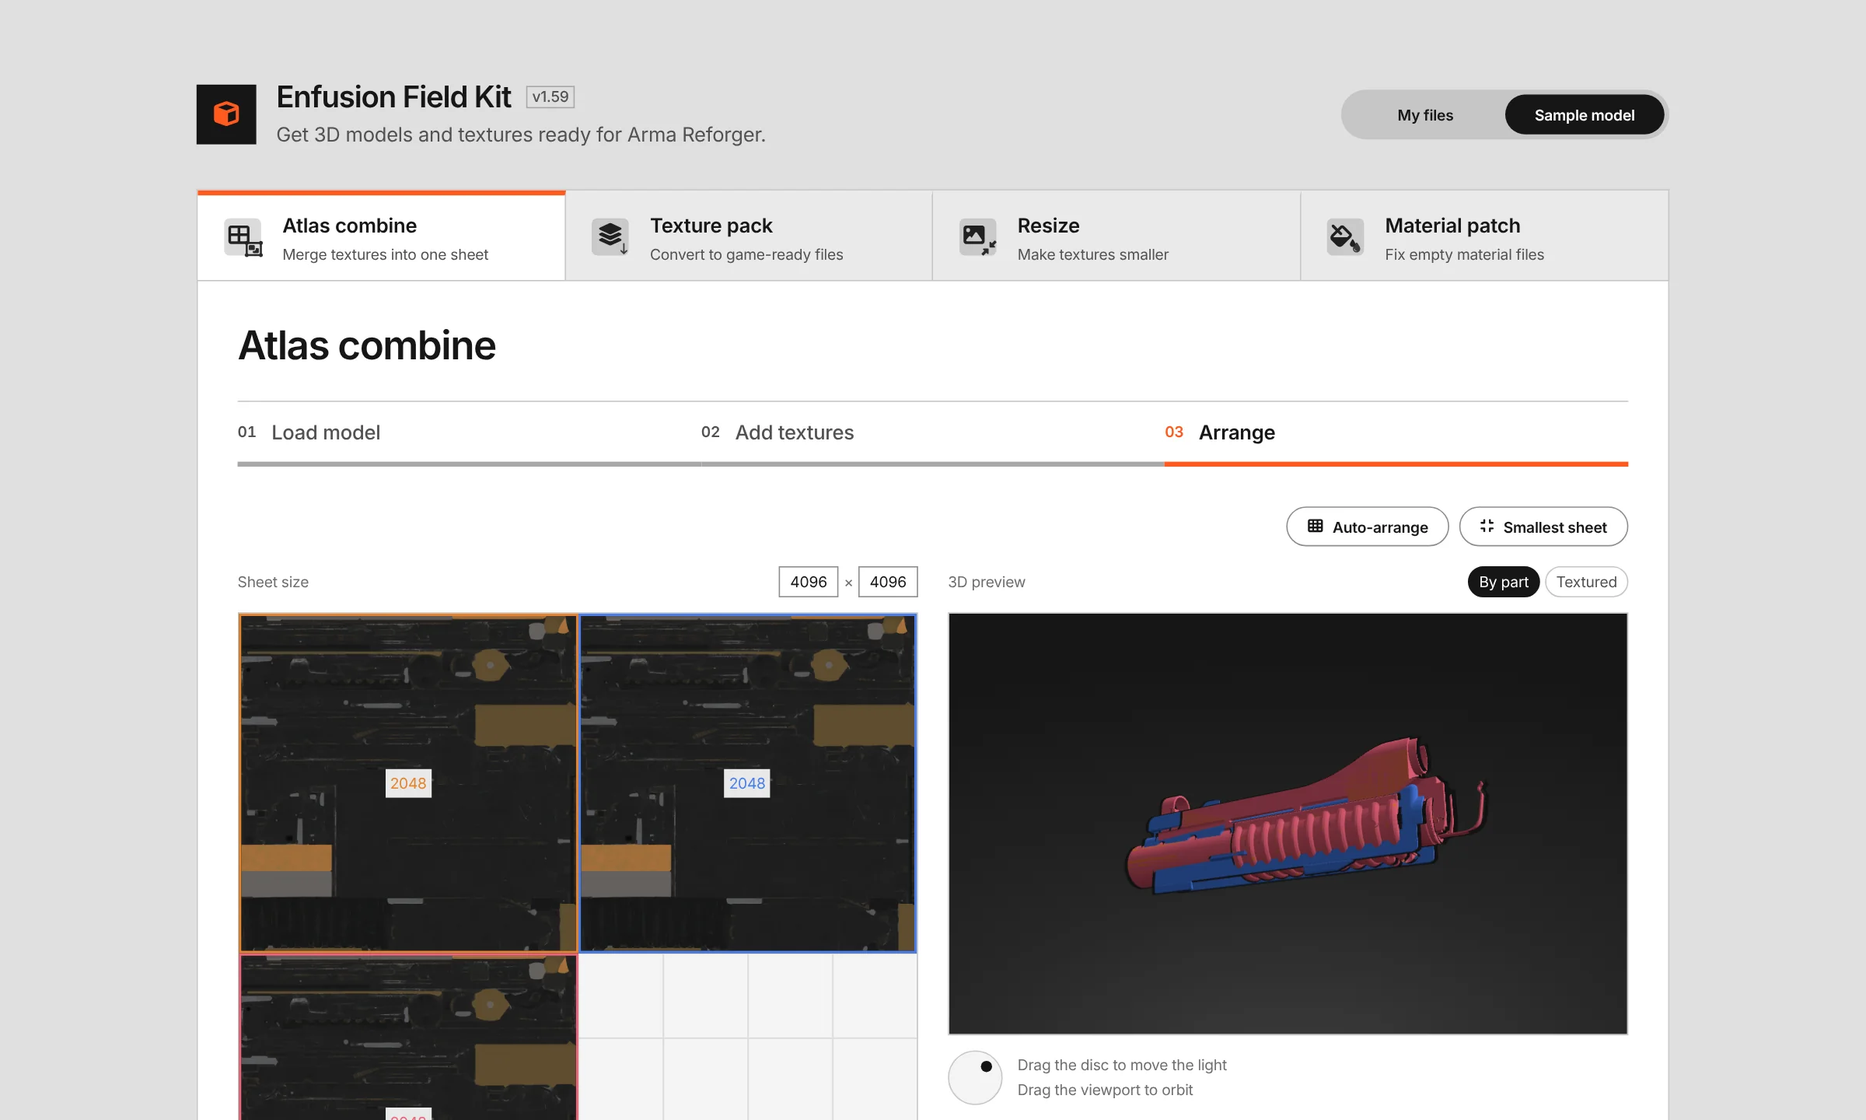
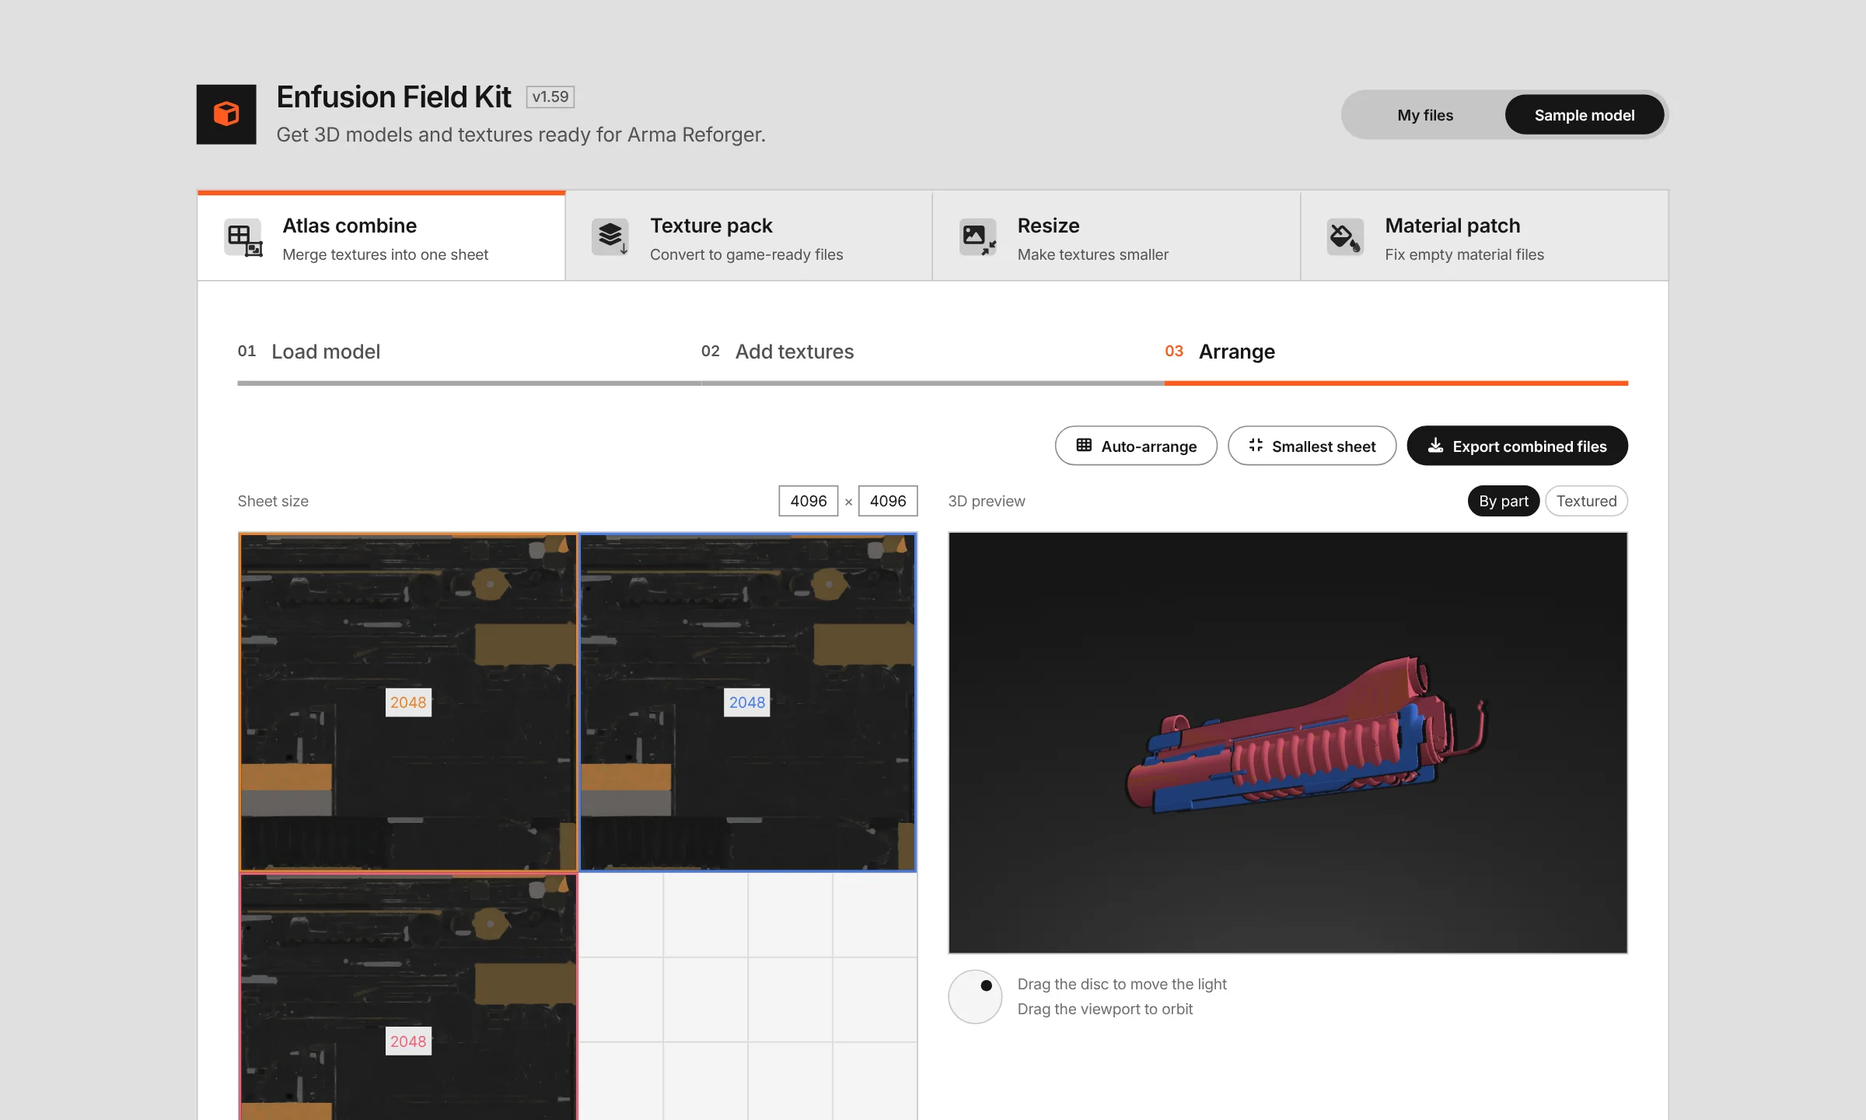
Add the Enfusion Field Kit case study and finish the redesign
- Field Kit: task title removed, final action moved to the top-right of each
  task's last step, all buttons one height
- New case study at /projects/enfusion-field-kit covering the problem, the
  four tasks and the design decisions, linking to the app
- Home card links to the case study and cycles four new screenshots
- Old Texture Wizard URL redirects to the case study; sitemap and llms.txt
  updated
- Project hero accepts a custom prototype label and note

Claude-Session: https://claude.ai/code/session_01Dr98zWrFXBtZQ6UmLSapEu

diff --git a/public/enfusion-field-kit-beta/index.html b/public/enfusion-field-kit-beta/index.html
@@ -89,7 +89,7 @@
   .efk-card { background:#FFFFFF; border:1px solid #C6C6C6; padding:32px; position:relative; min-height:480px; display:flex; flex-direction:column; }
   .efk-cardhead { display:flex; flex-direction:column; gap:24px; margin-bottom:32px; }
   .efk-h2 { margin:0; font-size:32px; font-weight:600; letter-spacing:-0.03em; line-height:40px; color:#161616; }
-  .efk-stepper { list-style:none; margin:0; padding:0; display:grid; grid-template-columns:repeat(3,minmax(0,1fr)); border-top:1px solid #C6C6C6; }
+  .efk-stepper { list-style:none; margin:0; padding:0; display:grid; grid-template-columns:repeat(3,minmax(0,1fr)); }
   .efk-stepper li { display:flex; }
   .efk-stepbtn { appearance:none; flex:1; border:none; border-radius:0; border-bottom:4px solid #E0E0E0; background:transparent; padding:12px 0; justify-content:flex-start !important; gap:12px !important; font-size:16px; line-height:24px; font-weight:500; color:#A8A8A8; text-align:left; cursor:not-allowed; transition:color .15s,border-color .15s; }
   .efk-stepbtn .efk-n { font-size:12px; line-height:16px; font-weight:600; font-variant-numeric:tabular-nums; }
@@ -179,7 +179,6 @@
       <div class="efk-content efk-card">
 
         <div class="efk-cardhead">
-          <h2 class="efk-h2">{{ briefTitle }}</h2>
           <ol class="efk-stepper">
             <sc-for list="{{ briefSteps }}" as="st" hint-placeholder-count="3">
               <li><button class="{{ st.cls }}" onClick="{{ st.onClick }}" disabled="{{ st.disabled }}"><span class="efk-n">{{ st.n }}</span><span>{{ st.label }}</span></button></li>
@@ -256,6 +255,9 @@
             <sc-if value="{{ showResults }}" hint-placeholder-val="{{ false }}">
               <div style="display:flex;flex-direction:column;gap:16px;animation:rise .3s ease both">
             <div class="h0 h1 efk-view">
+              <div class="efk-tools ">
+                    <button onClick="{{ onApply }}" disabled="{{ applyDisabled }}" style="{{ applyStyle }}">{{ applyLabel }}</button>
+              </div>
                 <div style="display:grid;grid-template-columns:repeat(auto-fit,minmax(180px,1fr));border:1px solid #C6C6C6">
                   <div style="padding:16px 16px;border-right:1px solid #C6C6C6;display:flex;flex-direction:column;gap:8px;min-width:0">
                     <div style="font-family:Inter,sans-serif;font-size:12px;color:#525252">Folder</div>
@@ -382,6 +384,9 @@
               </div>
             </div>
             <div class="h0 efk-view">
+              <div class="efk-tools h0 h1">
+              <button onClick="{{ onDownloadAll }}" disabled="{{ dlAllDisabled }}" style="{{ dlAllStyle }}" style-hover="filter:brightness(1.12)"><i class="fa-solid fa-download" aria-hidden="true"></i>Download everything (.zip)</button>
+              </div>
             <sc-if value="{{ hasSets }}" hint-placeholder-val="{{ false }}">
               <div onDragOver="{{ onSetsDragOver }}" onDragLeave="{{ onSetsDragLeave }}" onDrop="{{ onSetsDrop }}" style="{{ setsAreaStyle }}">
                 <sc-if value="{{ texDragOver }}" hint-placeholder-val="{{ false }}">
@@ -501,6 +506,11 @@
             </sc-if>
             </div>
             <div class="h0 efk-view">
+              <div class="efk-tools h0 h1">
+                <button onClick="{{ onResizeClear }}" disabled="{{ noResizeFiles }}" style="{{ clearStyle }}"><i class="fa-solid fa-trash" aria-hidden="true"></i>Clear all</button>
+                <button onClick="{{ onUndoAll }}" disabled="{{ undoAllDisabled }}" style="{{ undoAllStyle }}"><i class="fa-solid fa-rotate-left" aria-hidden="true"></i>Undo all</button>
+                <button onClick="{{ onReduceAll }}" disabled="{{ noResizeFiles }}" style="{{ reduceAllStyle }}">{{ reduceAllLabel }}</button>
+              </div>
             <sc-if value="{{ hasResizeFiles }}" hint-placeholder-val="{{ false }}">
               <div style="border:1px solid #C6C6C6">
                 <sc-for list="{{ resizeRows }}" as="row" hint-placeholder-count="3">
@@ -604,6 +614,7 @@
               <div class="efk-tools">
                 <button onClick="{{ onAutoPack }}" style="{{ utilBtn }}" style-hover="border-color:#161616;color:#161616"><i class="fa-solid fa-table-cells" aria-hidden="true"></i>Auto-arrange</button>
                 <button onClick="{{ onSmallestFit }}" style="{{ utilBtn }}" style-hover="border-color:#161616;color:#161616"><i class="fa-solid fa-compress" aria-hidden="true"></i>Smallest sheet</button>
+                <button onClick="{{ onExportAtlas }}" disabled="{{ atlasExportDisabled }}" style="{{ atlasExportStyle }}" style-hover="filter:brightness(1.14)"><i class="fa-solid fa-download" aria-hidden="true"></i>{{ atlasExportLabel }}</button>
               </div>
                 <div style="display:grid;grid-template-columns:repeat(auto-fit,minmax(320px,1fr));gap:24px;align-items:start">
 
@@ -674,20 +685,6 @@
             </sc-if>
             <sc-if value="{{ notLast }}" hint-placeholder-val="{{ false }}">
               <button onClick="{{ onStepNext }}" disabled="{{ nextDisabled }}" style="{{ nextStyle }}">Continue<i class="fa-solid fa-arrow-right" aria-hidden="true"></i></button>
-            </sc-if>
-            <sc-if value="{{ fin4 }}" hint-placeholder-val="{{ false }}">
-                <button onClick="{{ onExportAtlas }}" disabled="{{ atlasExportDisabled }}" style="{{ atlasExportStyle }}" style-hover="filter:brightness(1.14)"><i class="fa-solid fa-download" aria-hidden="true"></i>{{ atlasExportLabel }}</button>
-            </sc-if>
-            <sc-if value="{{ fin2 }}" hint-placeholder-val="{{ false }}">
-              <button onClick="{{ onDownloadAll }}" disabled="{{ dlAllDisabled }}" style="{{ dlAllStyle }}" style-hover="filter:brightness(1.12)"><i class="fa-solid fa-download" aria-hidden="true"></i>Download everything (.zip)</button>
-            </sc-if>
-            <sc-if value="{{ fin3 }}" hint-placeholder-val="{{ false }}">
-                <button onClick="{{ onResizeClear }}" disabled="{{ noResizeFiles }}" style="{{ clearStyle }}"><i class="fa-solid fa-trash" aria-hidden="true"></i>Clear all</button>
-                <button onClick="{{ onUndoAll }}" disabled="{{ undoAllDisabled }}" style="{{ undoAllStyle }}"><i class="fa-solid fa-rotate-left" aria-hidden="true"></i>Undo all</button>
-                <button onClick="{{ onReduceAll }}" disabled="{{ noResizeFiles }}" style="{{ reduceAllStyle }}">{{ reduceAllLabel }}</button>
-            </sc-if>
-            <sc-if value="{{ fin1 }}" hint-placeholder-val="{{ false }}">
-                    <button onClick="{{ onApply }}" disabled="{{ applyDisabled }}" style="{{ applyStyle }}">{{ applyLabel }}</button>
             </sc-if>
           </div>
         </div>
@@ -2555,7 +2552,7 @@ class Component extends DCLogic {
   }
 
   btn(kind, disabled) {
-    const big = kind === "primary";
+    const big = false;
     const base = "appearance:none;font-family:Inter,sans-serif;font-size:12px;font-weight:600;height:" + (big ? 40 : 32) + "px;padding:0 " + (big ? 20 : 16) + "px;transition:all .15s;white-space:nowrap;";
     if (disabled) return base + "border:1px solid #C6C6C6;background:transparent;color:#A8A8A8;cursor:not-allowed";
     if (kind === "primary") return base + "border:1px solid #161616;background:#161616;color:#FFFFFF;cursor:pointer";

diff --git a/app/projects/enfusion-field-kit/page.tsx b/app/projects/enfusion-field-kit/page.tsx
@@ -1,0 +1,188 @@
+import ProjectLayout from "../../../components/project-layout"
+import ProjectHero from "../../../components/project-hero"
+import ProjectSection from "../../../components/project-section"
+
+const APP_URL = "/enfusion_field_kit_beta"
+
+const sections = [
+  { id: "impact", title: "Impact" },
+  { id: "the-problem", title: "The Problem" },
+  { id: "users", title: "Users" },
+  { id: "what-it-does", title: "What It Does" },
+  { id: "how-a-task-works", title: "How a Task Works" },
+  { id: "design-decisions", title: "Design Decisions" },
+  { id: "try-it", title: "Try It" },
+]
+
+const projectData = {
+  company: "Independent project",
+  dateShipped: "2026",
+  title: "Enfusion Field Kit",
+  heroImage: {
+    src: "/enfusion-field-kit.webp",
+    alt: "Enfusion Field Kit arranging three texture tiles into one combined sheet beside a 3D preview",
+  },
+  prototypeHref: APP_URL,
+  prototypeLabel: "Open the app",
+  role: "Product Designer & Design Engineer",
+  timeline: "2025 – 2026",
+  team: "Solo",
+  responsibilities: "Product definition, interaction design, visual design, front-end implementation, and testing",
+  tools: "HTML, CSS, JavaScript, Three.js",
+  aiTools: "Claude Code, ChatGPT",
+  outcome: "A 14-set texture job cut from ~45 minutes to ~90 seconds",
+}
+
+const sectionContent = [
+  {
+    id: "impact",
+    title: "Impact",
+    content: [
+      {
+        type: "stat" as const,
+        content: { value: "30×", label: "faster texture conversion for 14 texture sets", from: "~45 minutes", to: "~90 seconds" },
+      },
+      {
+        type: "list" as const,
+        content: [
+          "Four modding chores in one browser tab",
+          "No Photoshop needed",
+          "Files never leave the modder's computer",
+        ],
+      },
+    ],
+  },
+  {
+    id: "the-problem",
+    title: "The Problem",
+    content: [
+      {
+        type: "paragraph" as const,
+        content:
+          "Arma Reforger needs textures in two packed formats, BCR and NMO, that no standard 3D marketplace exports. A modder importing a third-party model has to split and recombine image channels by hand in Photoshop, file by file. Many modders don't have Photoshop.",
+      },
+      {
+        type: "paragraph" as const,
+        content:
+          "Textures are only the first chore. Models arrive with several materials that should share one sheet, textures that are larger than the game needs, and material files that were created but left empty. Each fix lived in a different tool.",
+      },
+    ],
+  },
+  {
+    id: "users",
+    title: "Users",
+    content: [
+      {
+        type: "paragraph" as const,
+        content:
+          "Arma Reforger modders who bring in third-party models. They know the game's editor well, but they are not necessarily texture artists, and they work with whole model packs at a time.",
+      },
+    ],
+  },
+  {
+    id: "what-it-does",
+    title: "What It Does",
+    content: [
+      {
+        type: "decision-cards" as const,
+        content: [
+          {
+            header: "Atlas combine",
+            text: "Merges the textures of a model's separate parts into one sheet and updates the model to match. Fewer materials means less work for the game on every frame. A 3D preview shows the result before export.",
+            image: "/enfusion-field-kit-textures.webp",
+            imagePlaceholder: "Atlas combine step with five texture images assigned to each of three parts",
+          },
+          {
+            header: "Texture pack",
+            text: "Drop in a material's five standard images and the kit sorts them by filename and builds the two files the game expects. This is the job that used to take Photoshop.",
+            image: "/enfusion-field-kit-pack.webp",
+            imagePlaceholder: "Texture pack step showing normal, ambient occlusion, metallic, base color and roughness maps",
+          },
+          {
+            header: "Resize",
+            text: "Marketplace textures are often 4K when 2K or 1K is enough. Pick a size per file or for the whole batch, and undo any of it.",
+            image: "/enfusion-field-kit-resize.webp",
+            imagePlaceholder: "Resize step listing five texture files with a target size selected for each",
+          },
+          {
+            header: "Material patch",
+            text: "Scans a mod folder for material files left empty and fills in a working definition. Every change is previewed first, with an optional backup.",
+            image: "/enfusion-field-kit-patch.webp",
+            imagePlaceholder: "Material patch step asking for a mod folder to scan",
+          },
+        ],
+      },
+    ],
+  },
+  {
+    id: "how-a-task-works",
+    title: "How a Task Works",
+    content: [
+      {
+        type: "paragraph" as const,
+        content:
+          "Every task follows the same three steps: add files, check them, then run. Only the current step is on screen, and the stepper lets you go back. The kit opens each task on the furthest step that is ready, so returning users land on the action.",
+      },
+      {
+        type: "image" as const,
+        content: "/enfusion-field-kit.webp",
+        caption: "Atlas combine, step three: drag tiles to arrange the sheet, check the 3D preview, export",
+      },
+    ],
+  },
+  {
+    id: "design-decisions",
+    title: "Design Decisions",
+    content: [
+      {
+        type: "cards" as const,
+        content: [
+          {
+            header: "Plain words first",
+            text: "The first version spoke in engine shorthand: BCR, NMO, CRM, rewrite UVs. The task names stay, because modders search for them, but every task now carries a one-line description anyone can read.",
+          },
+          {
+            header: "One action per step",
+            text: "Each step has a single filled button, top right. Everything else is outlined. You never have to work out which button finishes the job.",
+          },
+          {
+            header: "A sample to learn on",
+            text: "The kit opens with a sample model loaded, so a newcomer can click through all four tasks before finding files of their own.",
+          },
+          {
+            header: "Nothing uploaded",
+            text: "All processing happens in the browser. Mod assets are often unreleased or licensed, so they stay on the modder's computer.",
+          },
+        ],
+      },
+    ],
+  },
+  {
+    id: "try-it",
+    title: "Try It",
+    content: [
+      {
+        type: "paragraph" as const,
+        content: "The app runs in any modern desktop browser and opens with the sample model loaded.",
+      },
+      {
+        type: "button" as const,
+        content: { text: "Open Enfusion Field Kit", url: APP_URL },
+      },
+    ],
+  },
+]
+
+export default function EnfusionFieldKitProject() {
+  return (
+    <ProjectLayout sections={sections}>
+      <div className="space-y-8 md:space-y-10">
+        <ProjectHero {...projectData} />
+
+        {sectionContent.map((section) => (
+          <ProjectSection key={section.id} id={section.id} title={section.title} content={section.content} />
+        ))}
+      </div>
+    </ProjectLayout>
+  )
+}

diff --git a/components/project-hero.tsx b/components/project-hero.tsx
@@ -15,6 +15,8 @@ interface ProjectHeroProps {
   tools: string
   aiTools?: string
   prototypeHref?: string
+  prototypeLabel?: string
+  prototypeNote?: string
   outcome: string
 }
 
@@ -31,6 +33,8 @@ export default function ProjectHero({
   aiTools,
   outcome,
   prototypeHref,
+  prototypeLabel = "Open the live prototype",
+  prototypeNote,
 }: ProjectHeroProps) {
   return (
     <div className="space-y-8 md:space-y-10">
@@ -50,17 +54,15 @@ export default function ProjectHero({
               href={prototypeHref}
               target="_blank"
               rel="noopener noreferrer"
-              aria-label="Open the 2026 Fleet Management prototype (opens in a new tab)"
+              aria-label={`${prototypeLabel} (opens in a new tab)`}
               className="group relative block overflow-hidden rounded-lg shadow-lg focus-visible:outline-2 focus-visible:outline-offset-4 focus-visible:outline-violet-700"
             >
               <img src={heroImage.src} alt={heroImage.alt} className="block w-full h-auto transition-transform duration-500 group-hover:scale-[1.015] motion-reduce:transition-none motion-reduce:group-hover:scale-100" />
               <span className="absolute bottom-3 right-3 inline-flex items-center gap-1.5 rounded-full bg-white px-3.5 py-2 text-xs md:text-sm font-semibold text-[#181425] shadow-md transition-transform duration-200 group-hover:-translate-y-0.5 motion-reduce:transition-none motion-reduce:group-hover:translate-y-0">
-                Open the live prototype <span aria-hidden="true">↗</span>
+                {prototypeLabel} <span aria-hidden="true">↗</span>
               </span>
             </a>
-            <figcaption className="text-sm text-gray-600">
-              The original work shipped in 2021. This is my 2026 rebuild of the same product as a working prototype.
-            </figcaption>
+{prototypeNote && <figcaption className="text-sm text-gray-600">{prototypeNote}</figcaption>}
           </figure>
         ) : (
           <img src={heroImage.src || "/placeholder.svg"} alt={heroImage.alt} className="w-full h-auto max-h-[512px] object-cover rounded-lg shadow-lg" />

diff --git a/app/projects/enfusion-field-kit/layout.tsx b/app/projects/enfusion-field-kit/layout.tsx
@@ -1,0 +1,46 @@
+import type { Metadata } from "next"
+import StructuredData from "../../../components/structured-data"
+
+const description = "Case study by Reid Slaughter on Enfusion Field Kit, a browser tool that prepares 3D models and textures for Arma Reforger, cutting a 45-minute texture job to about 90 seconds."
+
+export const metadata: Metadata = {
+  title: "Enfusion Field Kit Case Study | Reid Slaughter",
+  description,
+  alternates: { canonical: "/projects/enfusion-field-kit" },
+  openGraph: {
+    title: "Enfusion Field Kit Case Study | Reid Slaughter",
+    description,
+    url: "https://www.reidhslaughter.com/projects/enfusion-field-kit",
+    type: "website",
+    images: [{ url: "/enfusion-field-kit.webp", alt: "Enfusion Field Kit Case Study | Reid Slaughter" }],
+  },
+  twitter: {
+    card: "summary_large_image",
+    title: "Enfusion Field Kit Case Study | Reid Slaughter",
+    description,
+    images: ["/enfusion-field-kit.webp"],
+  },
+}
+
+const structuredData = {
+  "@context": "https://schema.org",
+  "@type": "CreativeWork",
+  name: "Enfusion Field Kit Case Study",
+  url: "https://www.reidhslaughter.com/projects/enfusion-field-kit",
+  description,
+  image: "https://www.reidhslaughter.com/enfusion-field-kit.webp",
+  keywords: ["Product Design","Design Engineering","Game Development Tools","Arma Reforger"],
+  creator: {
+    "@type": "Person",
+    "@id": "https://www.reidhslaughter.com/#reid-slaughter",
+    name: "Reid Slaughter",
+    url: "https://www.reidhslaughter.com/about",
+  },
+}
+
+export default function Layout({ children }: Readonly<{ children: React.ReactNode }>) {
+  return <>
+    <StructuredData data={structuredData} />
+    {children}
+  </>
+}

diff --git a/components/portfolio-home.tsx b/components/portfolio-home.tsx
@@ -43,9 +43,13 @@ const projects: Project[] = [
     role: "Product Designer & Design Engineer",
     business: "Independent project: Game-development tools",
     outcome: "Cut a 14-set texture workflow from ~45 minutes to ~90 seconds, in one browser tool.",
-    href: "/enfusion_field_kit_beta",
+    href: "/projects/enfusion-field-kit",
     hero: "/enfusion-field-kit.webp",
-    rest: [],
+    rest: [
+      { src: "/enfusion-field-kit-textures.webp", alt: "Enfusion Field Kit step for assigning five texture images to each part of a model" },
+      { src: "/enfusion-field-kit-pack.webp", alt: "Enfusion Field Kit texture pack step showing the five source maps for a material" },
+      { src: "/enfusion-field-kit-resize.webp", alt: "Enfusion Field Kit resize step with a target size per texture file" },
+    ],
   },
 ]
 

diff --git a/app/sitemap.ts b/app/sitemap.ts
@@ -10,6 +10,7 @@ export default function sitemap(): MetadataRoute.Sitemap {
     { url: `${base}/writing`, changeFrequency: "weekly", priority: 0.8 },
     { url: `${base}/projects/fleet-fuel-integration`, changeFrequency: "yearly", priority: 0.9 },
     { url: `${base}/projects/library-holding-app`, changeFrequency: "yearly", priority: 0.8 },
+    { url: `${base}/projects/enfusion-field-kit`, changeFrequency: "monthly", priority: 0.9 },
     { url: `${base}/enfusion_field_kit_beta`, changeFrequency: "monthly", priority: 0.8 },
     { url: `${base}/privacy`, changeFrequency: "yearly", priority: 0.3 },
     ...getPublishedArticles().map((article) => ({

diff --git a/app/projects/fleet-fuel-integration/page.tsx b/app/projects/fleet-fuel-integration/page.tsx
@@ -25,6 +25,7 @@ const projectData = {
     alt: "2026 Fleet Management prototype overview showing fleet status and operational metrics",
   },
   prototypeHref: "/apps/fleet-management",
+  prototypeNote: "The original work shipped in 2021. This is my 2026 rebuild of the same product as a working prototype.",
   role: "Product Designer",
   timeline: "2019 – 2022",
   team: "UX Designer, 2× App Developer, 1× Support Agent, 1× Customer Success Manager",
